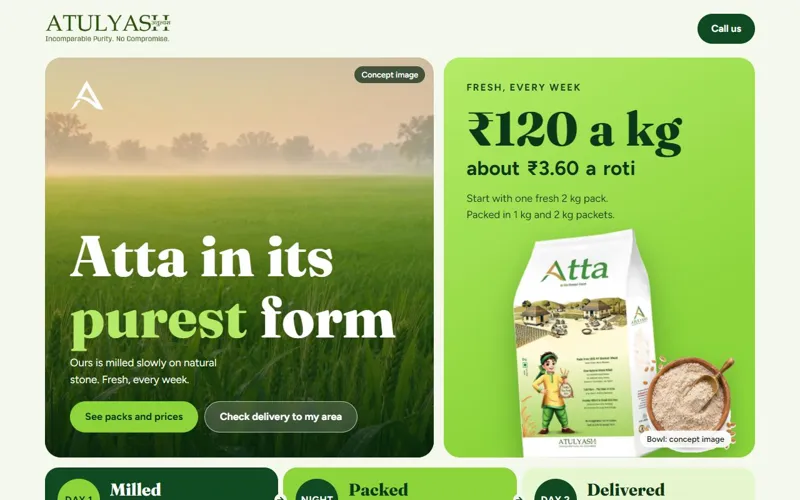
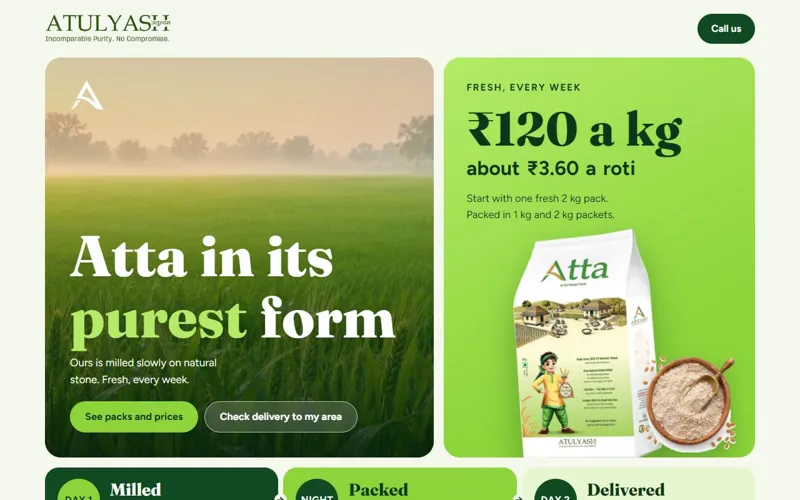
Remove AI labels from design 11 to match the other openings

Changed region(s): [[0.7812, 0.84, 0.9375, 0.9], [0.4375, 0.12, 0.5312, 0.18]]

diff --git a/opening/11-fresh-bento/index.html b/opening/11-fresh-bento/index.html
@@ -155,7 +155,6 @@ a{color:inherit}
     <div class="grid first">
       <section class="card hero" aria-labelledby="h1">
         <img class="bg" src="img/hero.webp" alt="A young green wheat field in soft morning light">
-        <span class="label">Concept image</span>
         <img class="mark" src="../shared/mark-white.png" alt="">
         <h1 id="h1" class="serif">Atta in its <em>purest</em> form</h1>
         <p>Ours is milled slowly on natural stone. Fresh, every week.</p>
@@ -172,7 +171,6 @@ a{color:inherit}
         <div class="shot">
           <img class="p" src="img/pack.webp" alt="The Atulyash atta pack">
           <img class="b" src="img/bowl.webp" alt="">
-          <span class="label lt">Bowl: concept image</span>
         </div>
       </section>
     </div>
@@ -186,7 +184,6 @@ a{color:inherit}
     <div class="grid duo">
       <section class="card rider" aria-label="Our riders">
         <img src="img/rider.webp" alt="A smiling rider in a green apron holding a crate of atta and wheat">
-        <span class="label">Concept image</span>
         <div class="t"><h2 class="serif">We deliver with our own riders.</h2><span class="u"></span></div>
       </section>
       <div class="stack grid">
@@ -211,7 +208,6 @@ a{color:inherit}
       <section class="card veer" aria-label="Veer asks">
         <p class="bub serif" lang="hi-Latn">Isse kisi ne poocha?<small lang="en">Did anyone ask about this one?</small></p>
         <img src="img/veer.webp" alt="Veer, a village boy in a yellow kurta and green headband, giving a thumbs up">
-        <span class="label">Concept art</span>
       </section>
     </div>
 
@@ -221,10 +217,10 @@ a{color:inherit}
       <ul class="grid ways">
         <li class="way"><div class="pic"><img src="img/wheat.webp" alt=""></div><div class="txt"><h3 class="serif">The wheat</h3><p>Single-origin MP Sharbati. Never blended with other varieties.</p></div></li>
         <li class="way"><div class="pic"><img src="img/cleaning.webp" alt=""></div><div class="txt"><h3 class="serif">The cleaning</h3><p>In several stages.</p></div></li>
-        <li class="way"><div class="pic il"><img src="img/stone.webp" alt=""><span class="label lt">Illustration</span></div><div class="txt"><h3 class="serif">The stone</h3><p>Natural stone chakkis. No emery stone, no steel rollers.</p></div></li>
-        <li class="way"><div class="pic"><img src="img/chokar.webp" alt=""><span class="label">Concept image</span></div><div class="txt"><h3 class="serif">The chokar</h3><p>Chokar kept in. Nothing removed, nothing added.</p></div></li>
+        <li class="way"><div class="pic il"><img src="img/stone.webp" alt=""></div><div class="txt"><h3 class="serif">The stone</h3><p>Natural stone chakkis. No emery stone, no steel rollers.</p></div></li>
+        <li class="way"><div class="pic"><img src="img/chokar.webp" alt=""></div><div class="txt"><h3 class="serif">The chokar</h3><p>Chokar kept in. Nothing removed, nothing added.</p></div></li>
         <li class="way"><div class="pic"><img src="img/milled.webp" alt=""></div><div class="txt"><h3 class="serif">The milling day</h3><p>Milled in small batches the day before, delivered the next morning.</p></div></li>
-        <li class="way"><div class="pic il"><img src="img/packing.webp" alt=""><span class="label lt">Illustration</span></div><div class="txt"><h3 class="serif">The packing</h3><p>Packed with minimal handling.</p></div></li>
+        <li class="way"><div class="pic il"><img src="img/packing.webp" alt=""></div><div class="txt"><h3 class="serif">The packing</h3><p>Packed with minimal handling.</p></div></li>
       </ul>
     </section>
 
